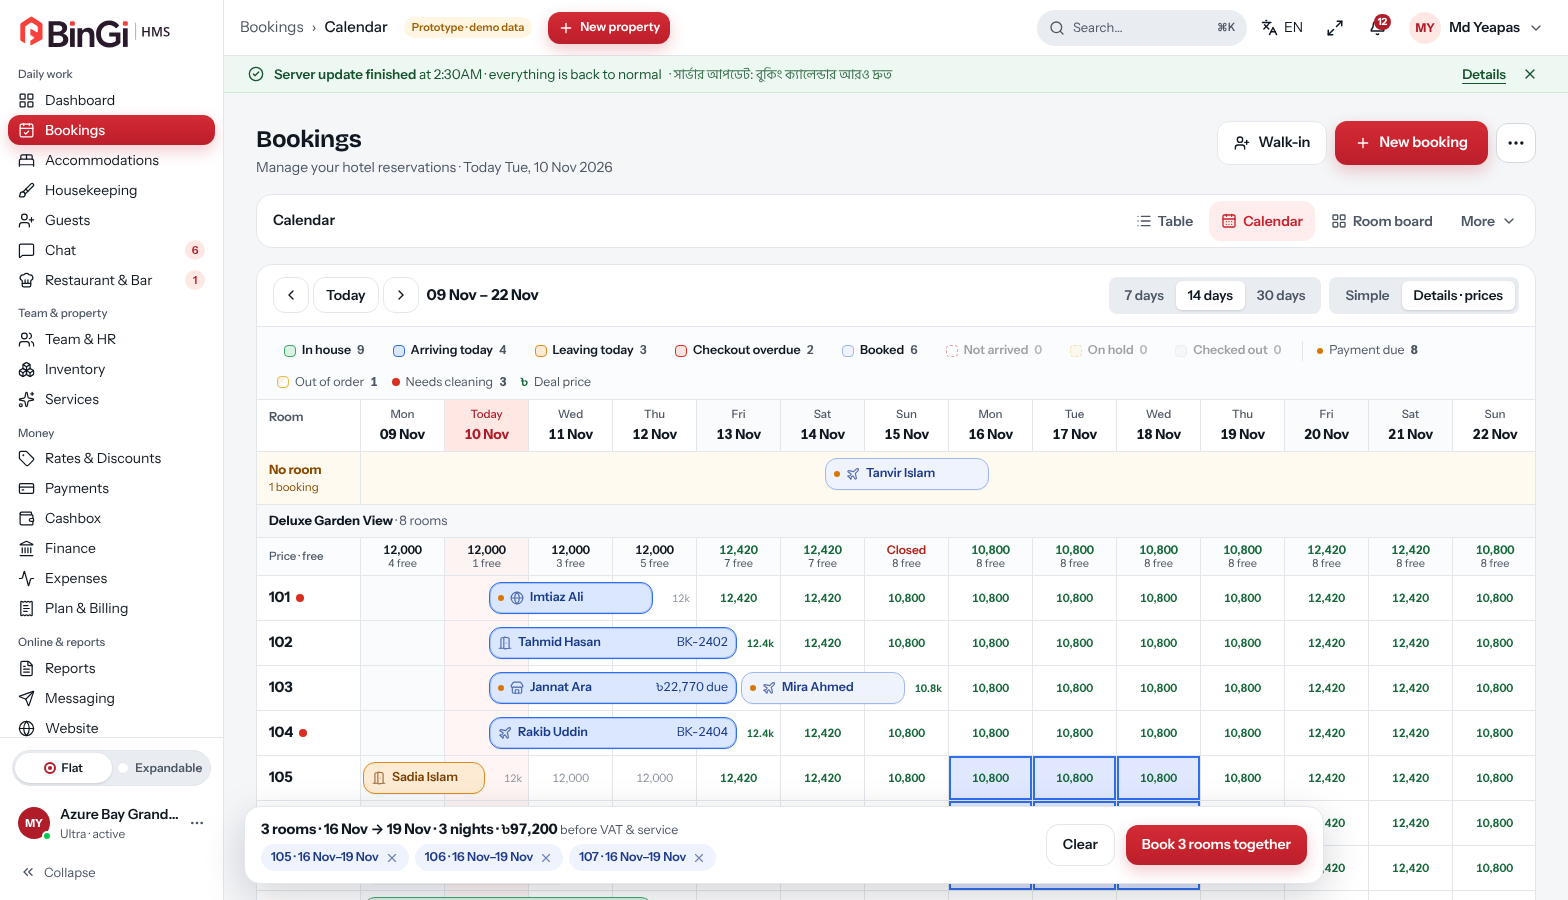
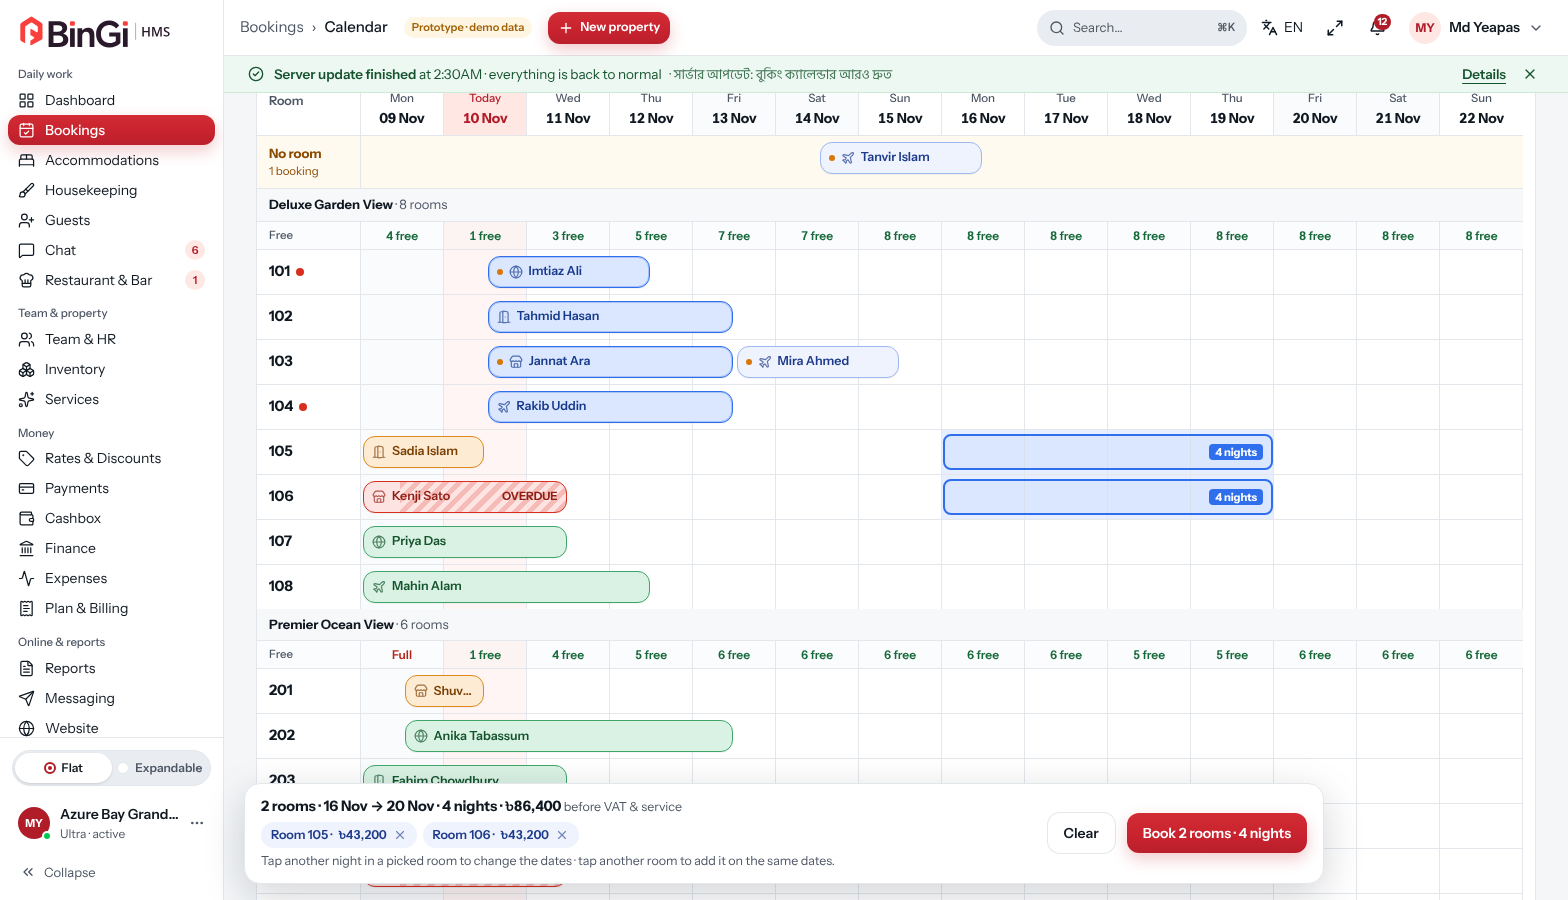
Booking calendar: one stay per selection — first + last night fills the range, extra rooms share the dates, conflicts named
Claude-Session: https://claude.ai/code/session_01R7iD7nyTUnrEyPYtQ7YvN3

diff --git a/src/components/hms/bookings/calendar.tsx b/src/components/hms/bookings/calendar.tsx
@@ -37,8 +37,9 @@ const effTo = (b: Booking) => (b.status === "Checked in" && b.to < TODAY ? addDa
 
 type Drag = { code: string; kind: "move" | "end"; x0: number; y0: number; dx: number; dy: number; room: string; moved: boolean };
 type Pending = { code: string; unit: string; from: string; to: string };
-type Pick = { r0: number; d0: string; r1: number; d1: string; base: Set<string> };
-const key = (room: string, d: string) => `${room}|${d}`;
+/** One stay for one guest: every picked room has the same nights, with no gaps. `to` = check-out day. */
+type Sel = { rooms: string[]; from: string; to: string };
+type PickDrag = { room: string; d0: string; r1: number; d1: string; moved: boolean };
 
 function Calendar() {
   const { bk, guests, open, toast } = useBk();
@@ -50,8 +51,9 @@ function Calendar() {
   const [drag, setDrag] = useState<Drag | null>(null);
   const [pending, setPending] = useState<Pending | null>(null);
   const [perr, setPerr] = useState("");
-  const [sel, setSel] = useState<Set<string>>(new Set());
-  const [pick, setPick] = useState<Pick | null>(null);
+  const [sel, setSel] = useState<Sel | null>(null);
+  const [pick, setPick] = useState<PickDrag | null>(null);
+  const [selErr, setSelErr] = useState("");
   const [focus, setFocus] = useState<SK | null>(null);
   const [hover, setHover] = useState<{ code: string; x: number; y: number } | null>(null);
   const justDragged = useRef(false);
@@ -159,48 +161,52 @@ function Calendar() {
   const newTotal = pending && pb ? (() => { const old = new Map(pb.nights.map((n) => [n.date, n.base])); const f = priceAt(pending.unit); let s0 = 0; for (let d = pending.from; d < pending.to; d = addDays(d, 1)) s0 += old.get(d) ?? f(d); return s0; })() : 0;
   const oldTotal = pb ? pb.nights.reduce((s0, n) => s0 + n.base, 0) : 0;
 
-  /* ---------- select free nights: click one, drag a box across rooms and days, Ctrl/⌘ or Shift to add more ---------- */
-  const boxOf = (p: Pick) => {
-    const [ra, rb] = p.r0 <= p.r1 ? [p.r0, p.r1] : [p.r1, p.r0];
-    const [da, db] = p.d0 <= p.d1 ? [p.d0, p.d1] : [p.d1, p.d0];
-    const out = new Set(p.base);
-    for (let r = ra; r <= rb; r++) { const u = bk.unitByCode.get(order[r]); if (!u) continue; for (let d = da; d <= db; d = addDays(d, 1)) if (freeAt(u, d)) out.add(key(u.code, d)); }
-    return out;
+  /* ---------- select one stay: first night, then last night (all nights between are filled); tap other rooms to add them on the same dates ---------- */
+  const nightsOf = (from: string, to: string) => { const o: string[] = []; for (let d = from; d < to; d = addDays(d, 1)) o.push(d); return o; };
+  const blockedOn = (room: string, from: string, to: string) => { const u = bk.unitByCode.get(room); if (!u) return from; return nightsOf(from, to).find((d) => !freeAt(u, d)); };
+  const tryRange = (rooms: string[], from: string, to: string): string => {
+    for (const r of rooms) { const d = blockedOn(r, from, to); if (d) return `Room ${r} is not free on ${dm(d)}. Pick dates around it, or another room.`; }
+    return "";
   };
-  const live2 = pick ? boxOf(pick) : sel;
+  const apply = (next: Sel | null) => {
+    if (!next || !next.rooms.length) { setSel(null); setSelErr(""); return; }
+    const e = tryRange(next.rooms, next.from, next.to);
+    if (e) { setSelErr(e); return; }
+    setSelErr(""); setSel(next);
+  };
+  const tapNight = (room: string, d: string) => {
+    if (!sel) return apply({ rooms: [room], from: d, to: addDays(d, 1) });
+    if (!sel.rooms.includes(room)) return apply({ ...sel, rooms: [...sel.rooms, room].sort((a, b) => order.indexOf(a) - order.indexOf(b)) });
+    // Same room: tap before = new first night, tap after = new last night, tap inside = stay ends that night.
+    if (d < sel.from) return apply({ ...sel, from: d });
+    if (d >= sel.to) return apply({ ...sel, to: addDays(d, 1) });
+    if (d === sel.from && sel.to === addDays(d, 1)) return apply({ ...sel, rooms: sel.rooms.filter((r) => r !== room) });
+    return apply({ ...sel, to: addDays(d, 1) });
+  };
+  // Drag = the same rule in one move: across days sets the nights, down/up adds the rooms passed over.
+  const dragSel = (p: PickDrag): Sel => {
+    const from = p.d0 <= p.d1 ? p.d0 : p.d1, to = addDays(p.d0 <= p.d1 ? p.d1 : p.d0, 1);
+    const r0 = order.indexOf(p.room); const [ra, rb] = r0 <= p.r1 ? [r0, p.r1] : [p.r1, r0];
+    const rooms = order.slice(ra, rb + 1).filter((r) => r === p.room || !blockedOn(r, from, to));
+    return { rooms, from, to };
+  };
+  const view = pick && pick.moved ? dragSel(pick) : sel;
+  const inSel = (room: string, d: string) => !!view && view.rooms.includes(room) && d >= view.from && d < view.to;
   useEffect(() => {
     if (!pick) return;
-    const up = () => {
-      const p = pick; setPick(null);
-      if (p.r0 === p.r1 && p.d0 === p.d1) { const k = key(order[p.r0], p.d0); const n = new Set(p.base); if (n.has(k)) n.delete(k); else n.add(k); setSel(n); return; }
-      setSel(boxOf(p));
-    };
-    window.addEventListener("pointerup", up); return () => window.removeEventListener("pointerup", up);
+    const up = () => { const p = pick; setPick(null); if (!p.moved) return tapNight(p.room, p.d0); justDragged.current = true; setTimeout(() => { justDragged.current = false; }, 0); apply(dragSel(p)); };
+    const cancel = () => setPick(null);
+    window.addEventListener("pointerup", up); window.addEventListener("pointercancel", cancel);
+    return () => { window.removeEventListener("pointerup", up); window.removeEventListener("pointercancel", cancel); };
   // eslint-disable-next-line react-hooks/exhaustive-deps
   }, [pick]);
-  useEffect(() => { const k = (e: KeyboardEvent) => { if (e.key === "Escape") { setSel(new Set()); setFocus(null); } }; window.addEventListener("keydown", k); return () => window.removeEventListener("keydown", k); }, []);
-  const startPick = (e: React.PointerEvent, room: string, d: string) => {
-    if (e.button !== 0) return;
-    const r = order.indexOf(room);
-    const keep = e.ctrlKey || e.metaKey || e.shiftKey || sel.has(key(room, d));
-    setPick({ r0: r, d0: d, r1: r, d1: d, base: keep ? new Set(sel) : new Set() });
-  };
-  const extendPick = (room: string, d: string) => { if (pick) setPick({ ...pick, r1: order.indexOf(room), d1: d }); };
+  useEffect(() => { const k = (e: KeyboardEvent) => { if (e.key === "Escape") { setSel(null); setSelErr(""); setFocus(null); } }; window.addEventListener("keydown", k); return () => window.removeEventListener("keydown", k); }, []);
+  const startPick = (e: React.PointerEvent, room: string, d: string) => { if (e.button !== 0) return; setPick({ room, d0: d, r1: order.indexOf(room), d1: d, moved: false }); };
+  const extendPick = (room: string, d: string) => { if (pick) { const r1 = order.indexOf(room); if (r1 !== pick.r1 || d !== pick.d1) setPick({ ...pick, r1, d1: d, moved: true }); } };
 
-  // Selection summary: per room, its nights; the rooms can be booked together when they share one unbroken stay.
-  const picked = useMemo(() => {
-    const m = new Map<string, string[]>();
-    for (const k of sel) { const [r, d] = k.split("|"); m.set(r, [...(m.get(r) ?? []), d]); }
-    return [...m.entries()].sort((a, b) => order.indexOf(a[0]) - order.indexOf(b[0])).map(([room, ds]) => {
-      ds.sort();
-      const gap = ds.some((d, i) => i > 0 && addDays(ds[i - 1], 1) !== d);
-      const f = priceAt(room);
-      return { room, from: ds[0], to: addDays(ds[ds.length - 1], 1), nights: ds.length, gap, total: ds.reduce((s, d) => s + f(d), 0) };
-    });
-  // eslint-disable-next-line react-hooks/exhaustive-deps
-  }, [sel, order, rates]);
-  const together = picked.length > 0 && !picked.some((p) => p.gap) && picked.every((p) => p.from === picked[0].from && p.to === picked[0].to);
-  const selTotal = picked.reduce((s, p) => s + p.total, 0);
+  const nights = sel ? nightsOf(sel.from, sel.to).length : 0;
+  const lines = sel ? sel.rooms.map((r) => { const f = priceAt(r); return { room: r, total: nightsOf(sel.from, sel.to).reduce((t, d) => t + f(d), 0) }; }) : [];
+  const selTotal = lines.reduce((t, l) => t + l.total, 0);
   const book = (rooms: string[], from: string, to: string) => router.push(`/hms/bookings/new?${rooms.length > 1 ? `rooms=${rooms.map(encodeURIComponent).join(",")}` : `room=${encodeURIComponent(rooms[0])}`}&from=${from}&to=${to}`);
 
   const hb = hover ? bk.list.find((x) => x.code === hover.code) : undefined;
@@ -309,8 +315,8 @@ function Calendar() {
                       {dates.map((d) => {
                         const off = oooOn(u, d, addDays(d, 1));
                         const can = freeAt(u, d);
-                        const on = live2.has(key(u.code, d));
-                        const cls = clsx("h-full shrink-0 border-r border-hms-line last:border-r-0", off && "hms-hatch", d === TODAY && "bg-hms-coral-soft/40", d < TODAY && "bg-[#fafbfc]", can && !on && "hover:bg-[#f0f4ff]", on && "!bg-[#dfe8ff] ring-2 ring-inset ring-[#2f6fed]");
+                        const on = inSel(u.code, d);
+                        const cls = clsx("h-full shrink-0 border-r border-hms-line last:border-r-0", off && "hms-hatch", d === TODAY && "bg-hms-coral-soft/40", d < TODAY && "bg-[#fafbfc]", can && !on && "hover:bg-[#f0f4ff]", on && "!bg-[#e6eeff]");
                         if (!can) return <div key={d} style={{ width: W }} className={cls} onPointerEnter={() => extendPick(u.code, d)} />;
                         const p = details ? priceAt(u.code)(d) : 0;
                         // Morning of a check-out day: the left half is under the leaving guest's bar, so the price sits on the right.
@@ -319,12 +325,16 @@ function Calendar() {
                         return (
                           <button key={d} tabIndex={-1} aria-pressed={on} aria-label={`Room ${u.code}, ${dm(d)}${details ? `, ${tk(p)}` : ""}, ${on ? "selected" : "free"}`}
                             onPointerDown={(e) => startPick(e, u.code, d)} onPointerEnter={() => extendPick(u.code, d)}
-                            onDoubleClick={() => book([u.code], d, addDays(d, 1))}
                             style={{ width: W }} className={clsx(cls, "relative", half ? "pr-1.5 text-right" : "text-center")}>
                             {details && <span className={clsx("pointer-events-none tabular-nums", half ? "text-[10.5px]" : "text-[11.5px]", dl ? "font-semibold text-[#16693a]" : on ? "font-semibold text-[#173a8a]" : "text-[#8a929e]")}>{half ? `${Math.round(p / 100) / 10}k` : fmt(p)}</span>}
                           </button>
                         );
                       })}
+                      {view && view.rooms.includes(u.code) && view.from < end && view.to > start && (() => {
+                        const f = view.from < start ? start : view.from, t = view.to > end ? end : view.to;
+                        const n = nightsOf(view.from, view.to).length;
+                        return <span aria-hidden className="pointer-events-none absolute inset-y-1 z-[2] flex items-center justify-end rounded-lg border-2 border-[#2f6fed] bg-[#2f6fed]/[0.06] px-2" style={{ left: ((Date.parse(f) - Date.parse(start)) / 864e5) * W + 1, width: ((Date.parse(t) - Date.parse(f)) / 864e5) * W - 2 }}>{W * n > 90 && <span className="rounded bg-[#2f6fed] px-1.5 text-[11px] font-bold text-white">{n} night{n > 1 ? "s" : ""}</span>}</span>;
+                      })()}
                       {bk.list.filter((b) => b.unit === u.code && inRange(b)).map(bar)}
                       {u.ooo && oooOn(u, start, end) && <span style={{ left: Math.max(0, (Date.parse(u.ooo.since.slice(0, 10) > start ? u.ooo.since.slice(0, 10) : start) - Date.parse(start)) / 864e5) * W + 8 }} className="pointer-events-none absolute top-1/2 -translate-y-1/2 rounded bg-white/90 px-1.5 text-[12px] font-semibold text-[#8a4b00]">Out of order · {u.ooo.reason}{u.ooo.until ? ` → ${dm(u.ooo.until)}` : ""}</span>}
                     </div>
@@ -336,27 +346,31 @@ function Calendar() {
         </div>
       </div>
 
-      {/* selection tray */}
-      {picked.length > 0 ? (
-        <div role="region" aria-label="Selected nights" className="hms-up fixed bottom-4 left-1/2 z-40 flex w-[min(1080px,calc(100vw-2rem))] -translate-x-1/2 flex-wrap items-center gap-3 rounded-2xl border border-hms-line bg-white px-4 py-3 shadow-[0_12px_40px_rgb(16_24_40/0.18)]">
+      {/* selection tray: one stay, same nights for every room */}
+      {sel || selErr ? (
+        <div role="region" aria-label="Selected stay" className="hms-up fixed bottom-4 left-1/2 z-40 flex w-[min(1080px,calc(100vw-2rem))] -translate-x-1/2 flex-wrap items-center gap-3 rounded-2xl border border-hms-line bg-white px-4 py-3 shadow-[0_12px_40px_rgb(16_24_40/0.18)]">
           <div className="min-w-0 flex-1">
-            <p className="text-[14.5px] font-bold">{picked.length} room{picked.length > 1 ? "s" : ""} · {together ? `${dm(picked[0].from)} → ${dm(picked[0].to)} · ${picked[0].nights} night${picked[0].nights > 1 ? "s" : ""}` : `${picked.reduce((s, p) => s + p.nights, 0)} room-nights`} · <span className="tabular-nums">{tk(selTotal)}</span> <span className="text-[12.5px] font-normal text-hms-muted">before VAT &amp; service</span></p>
-            <div className="mt-1 flex flex-wrap gap-1.5">
-              {picked.map((p) => (
-                <span key={p.room} className={clsx("inline-flex items-center gap-1.5 rounded-full px-2.5 py-1 text-[12.5px] font-semibold", p.gap ? "bg-[#fde3e1] text-[#8f1d14]" : "bg-[#eef3fe] text-[#1e3a8a]")}>
-                  {p.room} · {dm(p.from)}–{dm(p.to)}{p.gap && " · gap"}
-                  {!together && !p.gap && <button onClick={() => book([p.room], p.from, p.to)} className="ml-0.5 underline">Book</button>}
-                  <button aria-label={`Remove ${p.room}`} onClick={() => setSel(new Set([...sel].filter((k) => !k.startsWith(`${p.room}|`))))} className="opacity-60 hover:opacity-100"><X className="size-3.5" /></button>
-                </span>
-              ))}
-            </div>
-            {!together && <p className="mt-1 text-[12.5px] text-[#8a4b00]">{picked.some((p) => p.gap) ? "Pick nights next to each other for each room." : "Rooms have different dates — book each one, or select the same nights for all to book them together."}</p>}
+            {sel ? (
+              <>
+                <p className="text-[14.5px] font-bold">{sel.rooms.length} room{sel.rooms.length > 1 ? "s" : ""} · {dm(sel.from)} → {dm(sel.to)} · {nights} night{nights > 1 ? "s" : ""} · <span className="tabular-nums">{tk(selTotal)}</span> <span className="text-[12.5px] font-normal text-hms-muted">before VAT &amp; service</span></p>
+                <div className="mt-1 flex flex-wrap gap-1.5">
+                  {lines.map((l) => (
+                    <span key={l.room} className="inline-flex items-center gap-1.5 rounded-full bg-[#eef3fe] px-2.5 py-1 text-[12.5px] font-semibold text-[#1e3a8a]">
+                      Room {l.room} · <span className="tabular-nums">{tk(l.total)}</span>
+                      <button aria-label={`Remove room ${l.room}`} onClick={() => apply({ ...sel, rooms: sel.rooms.filter((r) => r !== l.room) })} className="opacity-60 hover:opacity-100"><X className="size-3.5" /></button>
+                    </span>
+                  ))}
+                </div>
+                <p className="mt-1 text-[12.5px] text-hms-muted">Tap another night in a picked room to change the dates · tap another room to add it on the same dates.</p>
+              </>
+            ) : <p className="text-[14px] font-semibold">Pick a free night to start.</p>}
+            {selErr && <p role="alert" className="mt-1 text-[13px] font-semibold text-[#b42318]">{selErr}</p>}
           </div>
-          <button onClick={() => setSel(new Set())} className="h-10 rounded-xl bg-white px-4 text-[14px] font-semibold ring-1 ring-hms-line hover:bg-hms-hover">Clear</button>
-          <button disabled={!together} onClick={() => book(picked.map((p) => p.room), picked[0].from, picked[0].to)} className="btn-glow h-10 rounded-xl px-4 text-[14px] font-semibold text-white disabled:opacity-40">Book {picked.length > 1 ? `${picked.length} rooms together` : "this room"}</button>
+          <button onClick={() => { setSel(null); setSelErr(""); }} className="h-10 rounded-xl bg-white px-4 text-[14px] font-semibold ring-1 ring-hms-line hover:bg-hms-hover">Clear</button>
+          {sel && <button onClick={() => book(sel.rooms, sel.from, sel.to)} className="btn-glow h-10 rounded-xl px-4 text-[14px] font-semibold text-white">Book {sel.rooms.length > 1 ? `${sel.rooms.length} rooms` : `room ${sel.rooms[0]}`} · {nights} night{nights > 1 ? "s" : ""}</button>}
         </div>
       ) : (
-        <p className="border-t border-hms-line px-4 py-2.5 text-[12.5px] text-hms-muted">Tap free nights to select them — drag a box across rooms and days, hold Ctrl/⌘ to add more, then <b>Book</b>. Double-tap a night to book it at once. Drag a booking to move it; drag its right edge to change check-out. Prices are per night before VAT &amp; service.</p>
+        <p className="border-t border-hms-line px-4 py-2.5 text-[12.5px] text-hms-muted">To book: tap the first night, then the last night — every night between is included. Tap other rooms to add them on the same dates, then <b>Book</b>. Or drag across days and rooms. Drag a booking to move it; drag its right edge to change check-out. Prices are per night before VAT &amp; service.</p>
       )}
 
       {/* hover card */}

diff --git a/docs/design/booking-calendar-v2/README.md b/docs/design/booking-calendar-v2/README.md
@@ -15,10 +15,12 @@ lists 17 "Not live" draft units first, and cuts guest names to "Q.".
 3. A guest past check-out still blocks the room until checked out (effTo = tonight). Free counts use the same rule.
 4. Simple / Details switch (saved per browser). Details: price per category per night + free count,
    price in every free room-night (deal price green), due amount on bars.
-5. Select and book together: tap free nights, drag a box across rooms and days, Ctrl/Cmd/Shift to add.
-   Tray shows rooms, dates, nights and total before VAT & service. Same dates for all rooms →
-   "Book N rooms together" opens New booking with ?rooms=a,b,c&from&to (New booking reads `rooms`).
-   Different dates → book each room from its chip. Double-tap a night = book it at once.
+5. Select and book (one guest, one stay): tap the first night, then the last night — every night between
+   is included, no gaps. Tap another room to add it on the SAME dates. Tap a night inside the range = stay ends
+   that night; tap before/after = move first/last night. If any picked room is not free on a night, the tray
+   says "Room X is not free on <date>" and keeps the old selection. Drag across days and rooms does the same in
+   one move. Tray: rooms, dates, nights, total before VAT & service → "Book N rooms · M nights" opens
+   New booking with ?rooms=a,b&from&to (New booking reads `rooms`).
 6. Hover card on a bar: state, room, stay, guests, source, total, paid, due.
 7. Drag-to-move and drag-to-extend kept as before.
 
